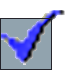
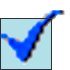
bugfix changed blue checkbox colors and color profile

diff --git a/src/falcong.cpp b/src/falcong.cpp
@@ -163,8 +163,13 @@ FalconG::FalconG(QWidget *parent)
 	connect(&_page, &WebEnginePage::loadFinished, this, &FalconG::WebPageLoaded);
 	ui.sample->setPage(&_page);
 //	_page.load(QUrl(QStringLiteral("qrc:/Preview/Resources/index.html")));
+//	_page.load(QUrl(QStringLiteral("file:///sample/index.html")));
+#ifdef __linux__	
+	QString url = "file://" + config.dsApplication.ToString() + "sample/index.html";
+	_page.load(QUrl(url));
+#else
 	_page.load(QUrl(QStringLiteral("file:///sample/index.html")));
-
+#endif
 
 	ui.trvAlbums->setHeaderHidden(true);
 	ui.trvAlbums->setModel(new AlbumTreeModel());
@@ -3060,7 +3065,7 @@ void FalconG::LinkClicked(QString s)
 void FalconG::WebPageLoaded(bool ready)
 {
 			// only check load once
-	if (!_isWebPageLoaded)
+	if (_isWebPageLoaded)
 		return;
 	_isWebPageLoaded = true;
 
